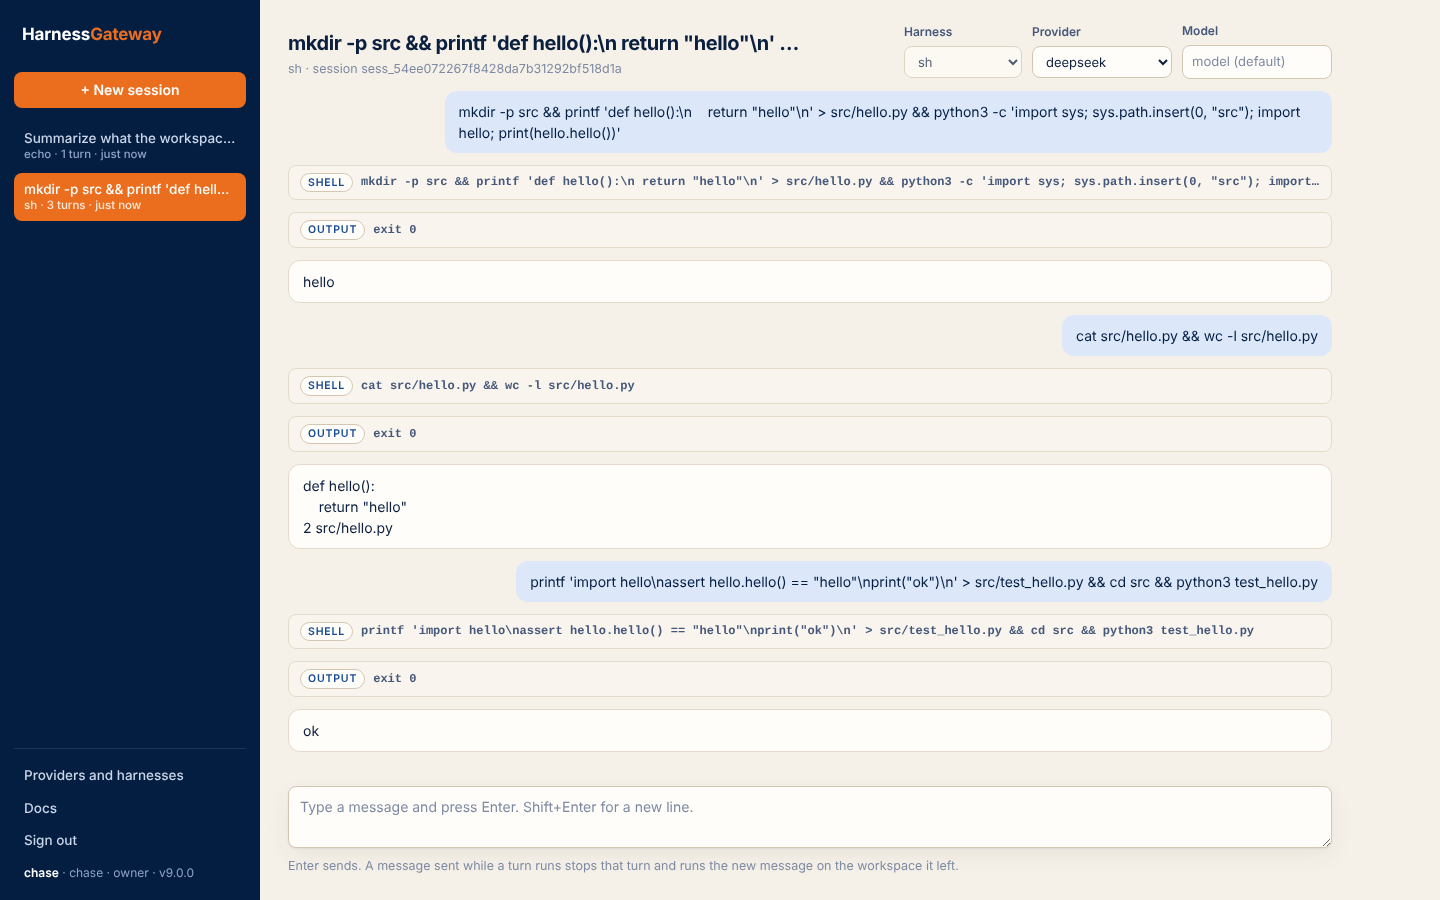
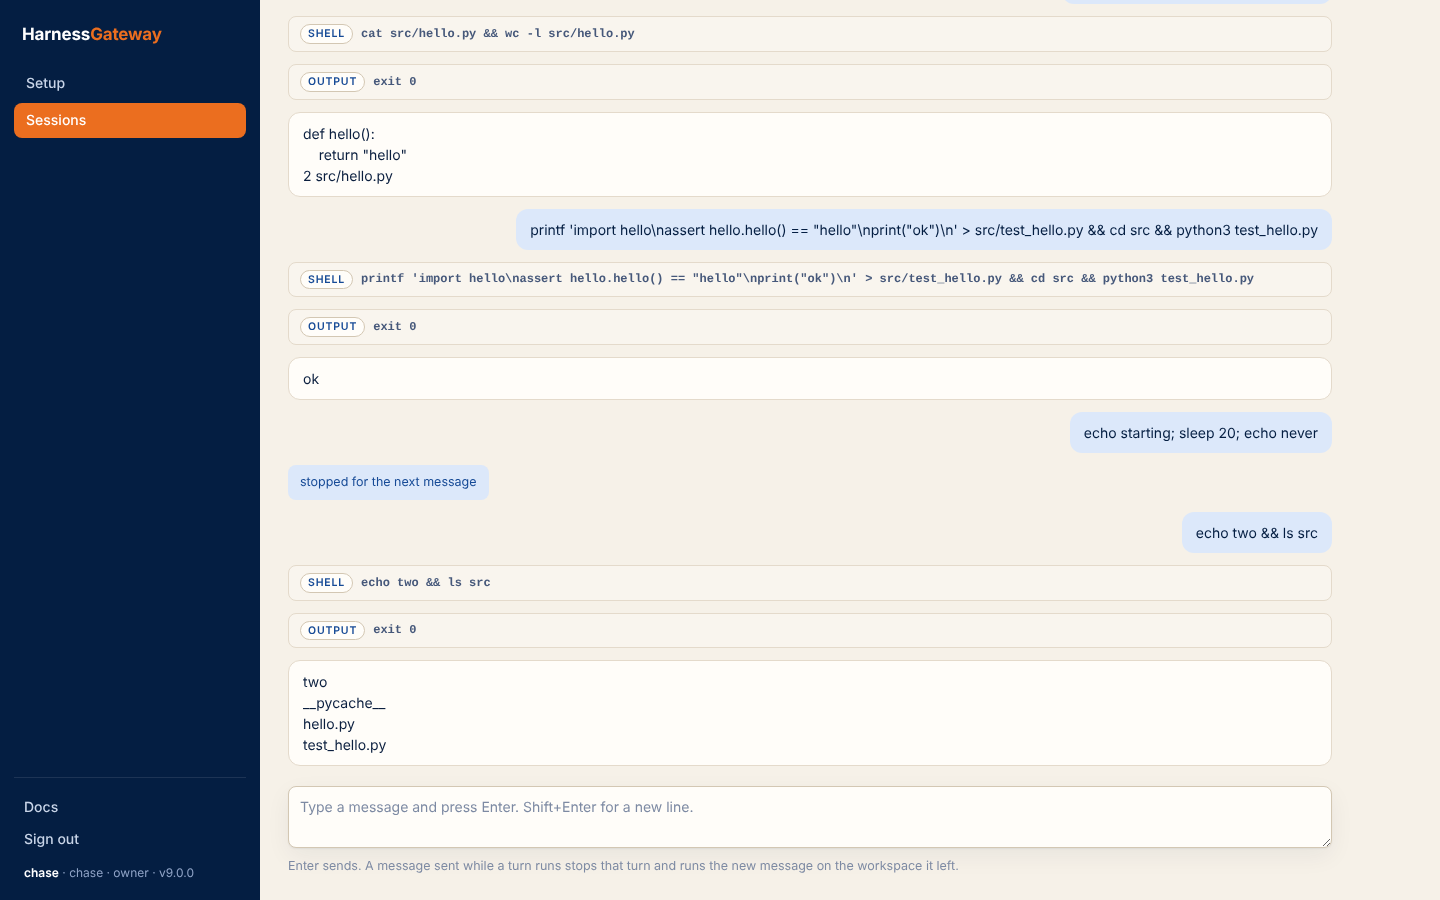
9.0.1: the app's sidebar is Setup and Sessions; Sessions lists every session
The sidebar navigates: Setup (providers and harnesses) and Sessions. Sessions lists every session
the member can see, newest first, with a new-session button; opening one is the conversation, with
a way back. A turn stopped for the next message says so where it was in the thread, and the page
follows the newest message.

Claude-Session: https://claude.ai/code/session_01ERRZXAJHGKJWMvAyf4LasW

Changed region(s): [[0.0, 0.0, 0.9375, 0.5911], [0.1875, 0.56, 0.9375, 0.84], [0.0, 0.84, 0.125, 0.8711]]

diff --git a/web/app.js b/web/app.js
@@ -89,30 +89,41 @@ function login(note, mode = "signin") {
 
 function signOut() { sessionStorage.removeItem("hg.key"); state.key = ""; if (state.account) api("POST", "/auth/logout").catch(() => {}); state.account = null; state.me = null; state.sid = ""; state.previous = ""; boot(); }
 
-// the app: the sessions on the left, the conversation (or the setup) on the right
+// the app: Setup and Sessions on the left; a session is the conversation
 async function load() {
   [state.harnesses, state.providers, state.sessions] = (await Promise.all(["/v1/harnesses", "/v1/providers", "/v1/sessions"].map(p => api("GET", p)))).map(x => x.data);
 }
-async function app(view = "chat", sid = state.sid) {
+async function app(view = "sessions", sid = "") {
   state.view = view;
   state.sid = sid;
   try { await load(); } catch (e) { return $("#root").replaceChildren(fail(e)); }
-  if (!state.harnesses.length && view === "chat" && !sid) state.view = "setup";    // nothing to talk to yet: set up first
+  if (!state.harnesses.length && view !== "setup") state.view = "setup";    // nothing to talk to yet: set up first
+  const nav = (name, label) => h("button", { class: "item" + (state.view === name || (name === "sessions" && state.view === "chat") ? " on" : ""), on: { click: () => app(name) } }, label);
   const side = h("aside", { class: "side" },
     h("a", { class: "brand", href: "/" }, h("span", { class: "wordmark" }, "Harness", h("em", {}, "Gateway"))),
-    state.account && state.orgs.length > 1 ? h("div", { class: "tenant" }, h("select", { on: { change: async (e) => { try { const me = await api("POST", "/auth/switch", { org: e.target.value }); state.orgs = me.orgs; state.me = { ...me.current, name: me.current.member }; app("chat", ""); } catch (err) { $("#root").prepend(fail(err)); } } } },
+    state.account && state.orgs.length > 1 ? h("div", { class: "tenant" }, h("select", { on: { change: async (e) => { try { const me = await api("POST", "/auth/switch", { org: e.target.value }); state.orgs = me.orgs; state.me = { ...me.current, name: me.current.member }; app("sessions"); } catch (err) { $("#root").prepend(fail(err)); } } } },
       ...state.orgs.map(t => h("option", { value: t.org, selected: t.org === state.me.org }, `${t.title || t.org} · ${t.role}`)))) : null,
-    h("button", { class: "act", style: "justify-content:center;margin:6px 0 10px", on: { click: () => app("chat", "") } }, "+ New session"),
-    h("div", { class: "sessions" }, ...state.sessions.map(s => h("button", { class: "item" + (s.id === sid && state.view === "chat" ? " on" : ""), on: { click: () => app("chat", s.id) } },
-      h("span", { class: "t" }, s.title || "(untitled)"), h("span", { class: "muted" }, `${s.harness} · ${s.responses.length} turn${s.responses.length === 1 ? "" : "s"} · ${ago(s.created_at)}`, s.status === "running" ? " · running" : "")))),
+    h("nav", { class: "nav" }, nav("setup", "Setup"), nav("sessions", "Sessions")),
     h("div", { class: "foot" },
-      h("button", { class: "item" + (state.view === "setup" ? " on" : ""), on: { click: () => app("setup") } }, "Providers and harnesses"),
       h("a", { class: "item", href: "/docs/" }, "Docs"),
       h("button", { class: "item", on: { click: signOut } }, "Sign out"),
       h("div", { class: "who" }, h("b", {}, state.me.name), ` · ${state.me.org_title || state.me.org} · ${state.me.role} · v${state.health.version}`)));
   const main = h("main", { class: "main" }, h("p", { class: "muted" }, "loading…"));
   $("#root").replaceChildren(h("div", { class: "app" }, side, main));
-  Promise.resolve(state.view === "setup" ? setup() : chat(sid)).then(node => main.replaceChildren(node)).catch(e => main.replaceChildren(fail(e)));
+  const page = state.view === "setup" ? setup() : state.view === "chat" ? chat(sid) : sessionsPage();
+  Promise.resolve(page).then(node => main.replaceChildren(node)).catch(e => main.replaceChildren(fail(e)));
+}
+
+// every session the member can see, newest first; open one, or start one
+function sessionsPage() {
+  const rows = state.sessions.map(s => h("button", { class: "session", on: { click: () => app("chat", s.id) } },
+    h("div", { class: "t" }, s.title || "(untitled)"),
+    h("div", { class: "row" }, tag(s.harness, "blue"), isOwner() ? h("span", { class: "muted" }, s.member) : null, s.status === "running" ? tag("running", "run") : null,
+      h("span", { class: "muted" }, `${s.responses.length} turn${s.responses.length === 1 ? "" : "s"} · ${ago(s.created_at)}`))));
+  return h("div", {},
+    h("div", { class: "page-head" }, h("div", {}, h("h1", {}, "Sessions"), h("p", {}, "A session is a conversation with one harness in one workspace. Open one to continue it, or start a new one.")),
+      h("button", { class: "act", on: { click: () => app("chat", "") } }, "+ New session")),
+    rows.length ? h("div", { class: "sessions" }, ...rows) : empty("No sessions yet. Start one."));
 }
 
 // the text of a response's messages
@@ -181,9 +192,8 @@ async function chat(sid) {
     state.live++;
     try { await consume(await api("GET", `/v1/responses/${r.id}?stream=true`, null, true), live); }
     catch (e) { note.replaceChildren(fail(e)); }
-    finally { state.live--; refreshList(); }
+    finally { state.live--; }
   };
-  const refreshList = async () => { try { state.sessions = (await api("GET", "/v1/sessions")).data; const list = $(".sessions"); if (list) list.replaceChildren(...state.sessions.map(s => h("button", { class: "item" + (s.id === state.sid ? " on" : ""), on: { click: () => app("chat", s.id) } }, h("span", { class: "t" }, s.title || "(untitled)"), h("span", { class: "muted" }, `${s.harness} · ${s.responses.length} turn${s.responses.length === 1 ? "" : "s"} · ${ago(s.created_at)}`, s.status === "running" ? " · running" : "")))); } catch { /* the list is a convenience */ } };
 
   const submit = async () => {
     const text = box.value.trim(); if (!text) return;
@@ -202,7 +212,7 @@ async function chat(sid) {
       state.sid = res.headers.get("x-session-id") || state.sid;
       await consume(res, live);
     } catch (e) { live.remove(); note.replaceChildren(fail(e)); if (!state.previous) harnessSel.disabled = false; }
-    finally { state.live--; refreshList(); }
+    finally { state.live--; }
   };
   box.addEventListener("keydown", (e) => { if (e.key === "Enter" && !e.shiftKey) { e.preventDefault(); submit(); } });
 
@@ -214,7 +224,7 @@ async function chat(sid) {
     setTimeout(scroll, 0);
   }
   return h("div", { class: "convo" },
-    h("div", { class: "convo-head" }, h("div", { style: "min-width:0" }, title, h("p", { class: "muted" }, sid ? `${session.harness} · session ${sid}` : "A session is a conversation with one harness in one workspace. Each message is a Responses request.")),
+    h("div", { class: "convo-head" }, h("div", { style: "min-width:0" }, h("a", { href: "#", class: "muted", on: { click: (e) => { e.preventDefault(); app("sessions"); } } }, "← Sessions"), title, h("p", { class: "muted" }, sid ? `${session.harness} · session ${sid}` : "Each message is a Responses request; the workspace persists across turns.")),
       h("div", { class: "row" }, field("Harness", harnessSel), field("Provider", providerSel), field("Model", modelIn))),
     thread,
     h("div", { class: "composer" }, box, note, h("p", { class: "muted", style: "margin:4px 0 0" }, "Enter sends. A message sent while a turn runs stops that turn and runs the new message on the workspace it left.")));
@@ -247,7 +257,7 @@ async function setup() {
         const r = await api("PUT", `/v1/harnesses/${name}`, await file.files[0].arrayBuffer(), true);
         if (!r.ok) throw new Error((await r.json()).detail || r.status);
       } else await api("POST", `/v1/harnesses/${name}`, { catalog: source.value });
-      app("chat", "");
+      app("sessions");
     } catch (e) { out.replaceChildren(fail(e)); }
   };
   const harnessRows = state.harnesses.map(hn => h("tr", {}, h("td", {}, h("b", {}, hn.name)), h("td", {}, `${hn.cli?.name || ""} ${hn.cli?.version || ""}`), h("td", {}, hn.defaults?.provider ? tag(hn.defaults.provider, "blue") : h("span", { class: "muted" }, "named in the request")), h("td", {}, hn.description),

diff --git a/web/style.css b/web/style.css
@@ -64,9 +64,8 @@ th { color:var(--muted); font-weight:600; font-size:11px; text-transform:upperca
 .side { background:var(--navy); color:#DCE5F3; padding:18px 14px; display:flex; flex-direction:column; gap:4px; position:sticky; top:0; height:100vh; overflow:hidden; }
 .side .brand { display:flex; align-items:center; gap:10px; padding:4px 8px 14px; color:#fff; font-weight:700; font-size:17px; text-decoration:none; }
 .side .tenant select { width:100%; background:#0A2A5E; color:#fff; border-color:#1E3F7A; font-size:13px; }
-.side .sessions { flex:1; overflow:auto; display:flex; flex-direction:column; gap:3px; min-height:0; }
-.side a.item, .side button.item { display:flex; flex-direction:column; align-items:flex-start; gap:2px; width:100%; text-align:left; background:none; border:0; color:#C9D5E8; padding:8px 10px; border-radius:8px; font-weight:500; font-size:13.5px; }
-.side .item .t { white-space:nowrap; overflow:hidden; text-overflow:ellipsis; max-width:100%; } .side .item .muted { color:#8FA3C6; font-size:11.5px; } .side .item.on .muted { color:#FBE7D8; }
+.side .nav { display:flex; flex-direction:column; gap:3px; }
+.side a.item, .side button.item { display:flex; align-items:center; gap:9px; width:100%; text-align:left; background:none; border:0; color:#C9D5E8; padding:9px 12px; border-radius:8px; font-weight:500; font-size:14px; }
 .side .item:hover { background:rgba(255,255,255,.07); color:#fff; text-decoration:none; } .side .item.on { background:var(--orange); color:#fff; }
 .side .foot { margin-top:auto; padding-top:12px; border-top:1px solid rgba(255,255,255,.1); font-size:12px; color:#8FA3C6; display:flex; flex-direction:column; gap:2px; }
 .side .foot .item { padding:6px 10px; } .side .foot .who { padding:8px 10px 0; } .side .foot b { color:#fff; font-weight:600; }
@@ -87,8 +86,12 @@ th { color:var(--muted); font-weight:600; font-size:11px; text-transform:upperca
 .item pre { border-radius:0; max-height:260px; font-size:12px; }
 .composer { position:sticky; bottom:0; padding-top:8px; background:var(--bg); } .composer textarea { min-height:56px; box-shadow:var(--shadow); }
 .setup .card { margin-top:16px; }
+.sessions { display:flex; flex-direction:column; gap:8px; }
+.sessions .session { display:flex; flex-direction:column; align-items:stretch; gap:6px; text-align:left; background:var(--surface); border:1px solid var(--line); border-radius:var(--radius); padding:12px 16px; box-shadow:var(--shadow); font-weight:500; }
+.sessions .session:hover { border-color:var(--navy); } .sessions .session .t { font-size:15px; font-weight:600; white-space:nowrap; overflow:hidden; text-overflow:ellipsis; }
+.tag.run { color:var(--warn); background:var(--warn-soft); border-color:transparent; }
 @media (max-width:900px) {
-  .app { grid-template-columns:1fr; } .side { position:static; height:auto; } .side .sessions { max-height:30vh; }
+  .app { grid-template-columns:1fr; } .side { position:static; height:auto; }
   .main { padding:16px; min-height:0; }
 }
 

diff --git a/docs/app.md b/docs/app.md
@@ -2,8 +2,8 @@
 
 The app at `/app` is one page over the same routes any client uses; nothing it does is unavailable
 to the [API](api.md) or the [command line](cli.md). It is the way a coding agent's web view works:
-sign in, add a provider, add a harness, start a session with the harness of your choice, type,
-press Enter.
+sign in, Setup (add a provider, add a harness), Sessions (every session, and a new one with the
+harness of your choice), type, press Enter.
 
 ## Sign in
 
@@ -14,8 +14,7 @@ organizations switches between them at the top of the sidebar.
 
 ## Providers and harnesses
 
-The setup page (the sidebar's "Providers and harnesses", and where a new organization lands) has
-two lists. A **provider** is a model endpoint and its key: name, API shape, URL, key; the key is
+Setup, in the sidebar (and where a new organization lands), has two lists. A **provider** is a model endpoint and its key: name, API shape, URL, key; the key is
 sealed on arrival and swapped in at the gateway per request, so no sandbox ever sees it
 ([Providers](providers.md)). A **harness** is a package that runs a CLI: pick one from the catalog
 and give it a name, or upload a package archive of your own ([Harnesses](harnesses.md)). Owners add
@@ -27,10 +26,18 @@ and remove both; members see them.
 
 ## Sessions
 
+Sessions, in the sidebar, lists every session the member can see (an owner sees the
+organization's), newest first, with its harness, its turns and whether it is running; open one to
+continue it.
+
+<figure class="shot" markdown>
+![Sessions](assets/console/sessions.png)
+</figure>
+
 "+ New session" opens the composer with a harness to choose (and a provider and model when the
 package has no default or you want another). Type and press Enter; Shift+Enter is a new line. The
 items stream in as the harness produces them: commands with their output, patches, reasoning,
-messages. The session appears in the sidebar with its title (the first line you typed) and reopens
+messages. The session appears in the list with its title (the first line you typed) and reopens
 from there, including one still running from another client: the stream resumes from its start.
 
 <figure class="shot" markdown>

diff --git a/CHANGELOG.md b/CHANGELOG.md
@@ -4,6 +4,13 @@ Every release is a section here, newest first, and the newest section's heading 
 A merge to `main` that adds a section releases it: the release workflow tags that version, builds
 the wheel and the image, and publishes the section as its notes.
 
+## [9.0.1]
+
+- The app's sidebar is Setup and Sessions. Sessions lists every session the member can see (an
+  owner sees the organization's), newest first, with "+ New session"; opening one is the
+  conversation, with a way back to the list. A turn stopped for the next message says so where it
+  was in the thread, and the page follows the newest message.
+
 ## [9.0.0]
 
 The platform, pared down to the multi-tenant platform for organizations: the same product managed
